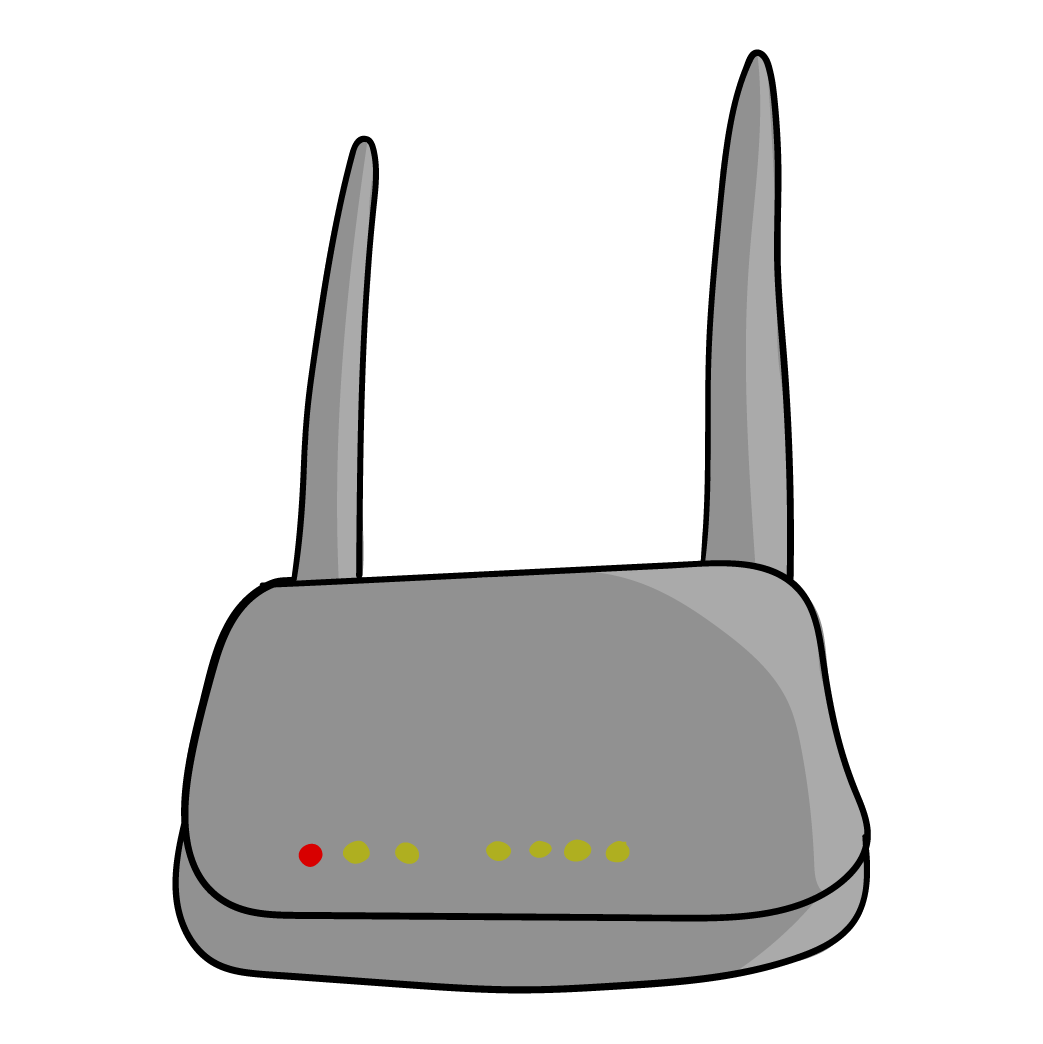
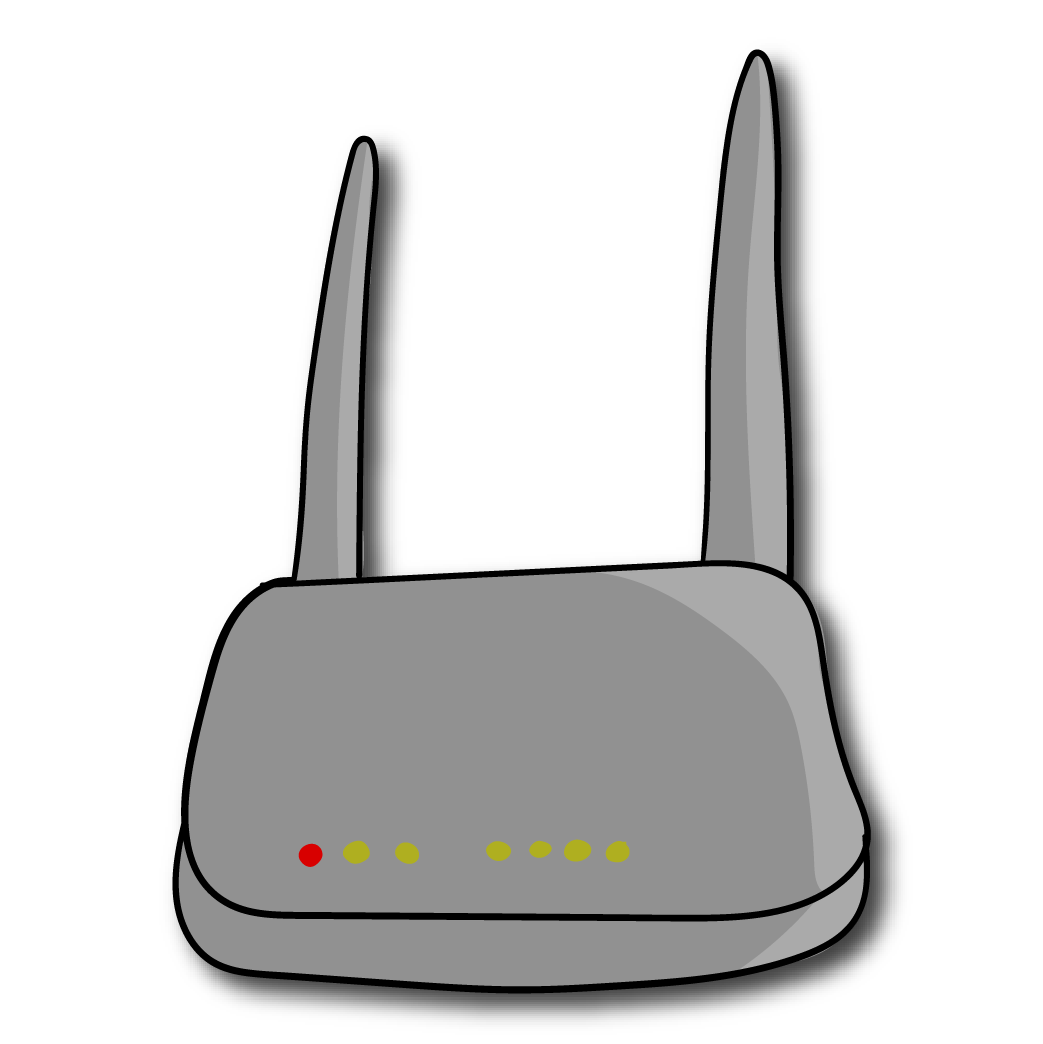
done

Changed region(s): [[0.1841, 0.0307, 0.8591, 0.9808], [0.3375, 0.1226, 0.3988, 0.5517], [0.1534, 0.8889, 0.1841, 0.9195]]

diff --git a/src/components/headers/FrontEndHeader/Terminal.tsx b/src/components/headers/FrontEndHeader/Terminal.tsx
@@ -1,3 +1,167 @@
-const Terminal = () => {};
+"use client";
+
+import { useState, useRef } from "react";
+import { useRouter } from "next/navigation";
+import Style from "./terminal.module.css";
+
+const Terminal = () => {
+  const [input, setInput] = useState("");
+  const [history, setHistory] = useState<string[]>([
+    "Welcome to Widhy Terminal. Type 'help' to see all commands available.",
+  ]);
+  const [commandHistory, setCommandHistory] = useState<string[]>([]);
+  const [historyIndex, setHistoryIndex] = useState(-1);
+  const inputRef = useRef<HTMLInputElement>(null);
+  const router = useRouter();
+
+  const handleCommand = (cmd: string) => {
+    const newHistory = [...history, `> ${cmd}`];
+    let output = "";
+
+    const commandAvailable = [
+      "Commands available:",
+      "home - go to home page",
+      "ill - go to illustrator page",
+      "about - go to front-end page",
+      "contact - go to contact page",
+      "pratic - practice files create a basic front-end",
+      "location - show location",
+      "clear - clear terminal",
+    ];
+
+    switch (cmd.toLowerCase()) {
+      case "help":
+        output = commandAvailable.join("\n");
+        break;
+      case "home":
+        router.push("/");
+        output = "Navigating to home page.";
+        break;
+      case "ill":
+        router.push("/iLLustrator");
+        output = "Navigating to illustrator page.";
+        break;
+      case "about":
+        router.push("/about");
+        output = "Navigating to about page.";
+        break;
+      case "contact":
+        router.push("/contact");
+        output = "Navigating to contact page.";
+        break;
+      case "pratic":
+        router.push("/pratic");
+        output = "Navigating to pratic page.";
+        break;
+      case "location":
+        output = "madiun, east java";
+        break;
+      case "clear":
+        setHistory(["Terminal cleared. Type 'help' for commands."]);
+        setInput("");
+        return;
+      default:
+        if (cmd.startsWith("echo ")) {
+          output = cmd.slice(5);
+        } else {
+          output = `Command not found: ${cmd}`;
+        }
+    }
+
+    if (output) {
+      newHistory.push(output);
+    }
+    setHistory(newHistory);
+    setInput("");
+    setCommandHistory((prev) => [...prev, cmd]);
+    setHistoryIndex(-1);
+  };
+
+  const handleInputChange = (e: React.ChangeEvent<HTMLInputElement>) => {
+    setInput(e.target.value);
+    if (historyIndex !== -1) {
+      setHistoryIndex(-1);
+    }
+  };
+
+  const handleSubmit = (e: React.FormEvent) => {
+    e.preventDefault();
+    if (input.trim()) {
+      handleCommand(input.trim());
+    }
+  };
+
+  const handleKeyDown = (e: React.KeyboardEvent<HTMLInputElement>) => {
+    if (e.key === "ArrowUp") {
+      e.preventDefault();
+      if (historyIndex < commandHistory.length - 1) {
+        const newIndex = historyIndex + 1;
+        setHistoryIndex(newIndex);
+        setInput(commandHistory[commandHistory.length - 1 - newIndex]);
+      }
+    } else if (e.key === "ArrowDown") {
+      e.preventDefault();
+      if (historyIndex > 0) {
+        const newIndex = historyIndex - 1;
+        setHistoryIndex(newIndex);
+        setInput(commandHistory[commandHistory.length - 1 - newIndex]);
+      } else if (historyIndex === 0) {
+        setHistoryIndex(-1);
+        setInput("");
+      }
+    }
+  };
+
+  return (
+    <section
+      className={`${Style.terminal} w-full max-w-2xl h-[300px] rounded-xl overflow-hidden shadow-2xl border border-white/10`}
+    >
+      {/* Kontainer Utama dengan Scroll Independen */}
+      <section className="h-full w-full bg-[#1e1e1e] flex flex-col">
+        {/* Header Terminal */}
+        <header className="w-full py-2 px-4 bg-[#333] flex gap-2 items-center">
+          <span className="h-3 w-3 rounded-full bg-red-500"></span>
+          <span className="h-3 w-3 rounded-full bg-yellow-500"></span>
+          <span className="h-3 w-3 rounded-full bg-green-500"></span>
+          <span className="ml-2 text-xs text-gray-400 font-mono">
+            bash — portofolio
+          </span>
+        </header>
+
+        {/* Area Content yang bisa di-scroll */}
+        <section className="flex-1 overflow-y-auto p-4 font-mono text-sm overscroll-contain bg-footer/50">
+          <div className="text-slate-50 whitespace-pre-wrap">
+            {history.map((line, index) => (
+              <div key={index} className="mb-1">
+                {line.split("\n").map((subLine, subIndex) => (
+                  <div key={subIndex}>{subLine}</div>
+                ))}
+              </div>
+            ))}
+          </div>
+
+          <form
+            onSubmit={handleSubmit}
+            className="flex items-center gap-2 mt-1"
+          >
+            <span className="text-green-400 font-bold">$</span>
+            <span className="text-blue-300 font-bold">{">"}</span>
+            <input
+              ref={inputRef}
+              id="input-terminal"
+              type="text"
+              autoFocus
+              value={input}
+              onChange={handleInputChange}
+              onKeyDown={handleKeyDown}
+              autoComplete="off"
+              className="bg-transparent outline-none flex-1 text-slate-50 border-none focus:ring-0 p-0 m-0"
+            />
+          </form>
+        </section>
+      </section>
+    </section>
+  );
+};
 
 export default Terminal;

diff --git a/src/components/headers/FrontEndHeader/FrontEndHeaderComponent.tsx b/src/components/headers/FrontEndHeader/FrontEndHeaderComponent.tsx
@@ -2,76 +2,58 @@
 
 import Image from "next/image";
 import Magnet from "@/components/ReacbitsComponents/Magnet/Magnet";
+import Terminal from "./Terminal";
 
 const HeaderFrontEndComponent = () => {
   return (
-    <header className="w-full h-screen bg-primary fixed inset-0">
-      <section className="max-width-custom h-screen flex flex-col lg:flex-row items-center m-auto">
-        {/*  */}
-        <div className="w-[90%] h-[50%] lg:h-full pt-[20%] montserrat">
+    <header className="w-full h-screen bg-primary inset-0 overflow-hidden">
+      <section className="max-w-[1200px] h-screen flex flex-col lg:flex-row items-center m-auto px-6">
+        {/* Bagian Teks & Image */}
+        <div className="w-full lg:w-1/2 h-1/2 lg:h-full flex flex-col justify-center montserrat">
           <Magnet padding={50} disabled={false} magnetStrength={50}>
-            <p className="text-[2em] font-black md:text-[4em] main-font">
+            <p className="text-[2.5em] font-black md:text-[4em] main-font leading-tight">
               Proyek Saya<span className="text-blue-700">.</span>
             </p>
           </Magnet>
-          <section className="flex items-center gap-2">
+
+          <section className="flex items-center gap-3 my-4">
             <span className="h-6 w-0.5 bg-slate-50"></span>
-            <blockquote className="italic main-font montserrat">
+            <blockquote className="italic main-font opacity-80">
               Sukses itu hadiah bagi yang selalu berusaha.
             </blockquote>
           </section>
-          <Magnet padding={50} disabled={false} magnetStrength={15}>
-            <section className="w-full h-20 md:h-32 flex relative">
-              <div className="h-full aspect-square  relative">
-                <Image
-                  loading="eager"
-                  priority
-                  className="object-cover"
-                  src="/asset/pageFrontend/stopkontak.webp"
-                  alt="stopkontak"
-                  fill
-                  unoptimized
-                />
-              </div>
 
-              <div className="h-full aspect-square  relative">
-                <Image
-                  loading="eager"
-                  priority
-                  className="object-cover"
-                  src="/asset/pageFrontend/router.webp"
-                  alt="stopkontak"
-                  fill
-                  unoptimized
-                />
-              </div>
-              <div className="h-full aspect-square  relative">
-                <Image
-                  loading="eager"
-                  priority
-                  className="object-cover"
-                  src="/asset/pageFrontend/kabellan.webp"
-                  alt="stopkontak"
-                  fill
-                  unoptimized
-                />
-              </div>
-              <div className="h-full aspect-square  relative">
-                <Image
-                  loading="eager"
-                  priority
-                  className="object-cover"
-                  src="/asset/pageFrontend/databases.webp"
-                  alt="stopkontak"
-                  fill
-                  unoptimized
-                />
-              </div>
+          <Magnet padding={50} disabled={false} magnetStrength={15}>
+            <section className="w-full h-20 md:h-32 flex gap-2 relative mt-4">
+              {[
+                "stopkontak.webp",
+                "router.webp",
+                "kabellan.webp",
+                "databases.webp",
+              ].map((img, i) => (
+                <div
+                  key={i}
+                  className="h-full aspect-square relative rounded-lg overflow-hidden border border-white/10"
+                >
+                  <Image
+                    loading="eager"
+                    priority
+                    className="object-cover"
+                    src={`/asset/pageFrontend/${img}`}
+                    alt={img}
+                    fill
+                    unoptimized
+                  />
+                </div>
+              ))}
             </section>
           </Magnet>
         </div>
-        {/*  */}
-        <div className="w-[90%] h-[50%] lg:h-full  pt-[15%]"></div>
+
+        {/* Bagian Terminal */}
+        <div className="w-full lg:w-1/2 h-1/2 lg:h-full flex items-center justify-center p-4">
+          <Terminal />
+        </div>
       </section>
     </header>
   );

diff --git a/src/components/FrontEndHeroSection/FrontEndHeroSection.tsx b/src/components/FrontEndHeroSection/FrontEndHeroSection.tsx
@@ -18,7 +18,7 @@ const FrontEndHeroSection = () => {
   ];
 
   return (
-    <section className="w-full py-48 bg-secondary mt-[100svh] relative z-20 overflow-hidden">
+    <section className="w-full py-48 bg-secondary  relative z-20 overflow-hidden">
       <div className="max-width-custom mx-auto relative z-30">
         {/* card */}
         <div className="w-full  max-width-custom flex flex-col  items-center justify-center gap-32 py-24 ">

diff --git a/src/components/nav/nav.tsx b/src/components/nav/nav.tsx
@@ -49,9 +49,9 @@ const Navbar = () => {
 
   const toggleMenu = () => setIsOpen(!isOpen);
 
-  const handleLinkClick = () => {
-    setIsOpen(false);
-  };
+  // const handleLinkClick = () => {
+  //   setIsOpen(false);
+  // };
 
   return (
     <header

diff --git a/src/components/headers/FrontEndHeader/terminal.module.css b/src/components/headers/FrontEndHeader/terminal.module.css
@@ -1,0 +1,5 @@
+.terminal {
+  box-shadow:
+    rgba(0, 0, 0, 0.807) 0px 6px 12px -2px,
+    rgba(0, 0, 0, 0.883) 0px 3px 7px -3px;
+}
